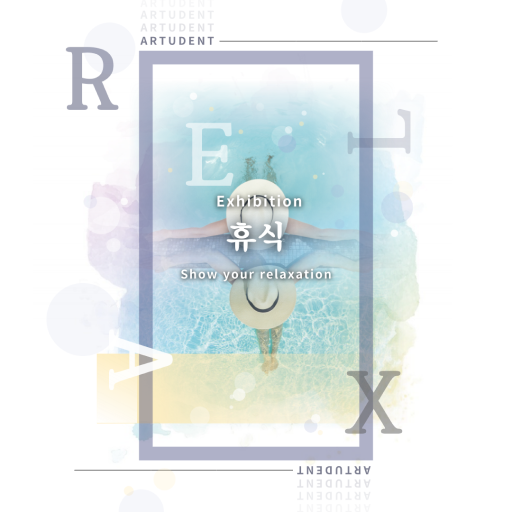
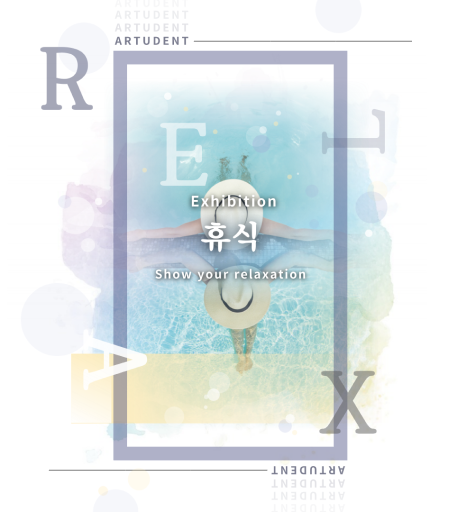
make landing page media-query with jquery

diff --git a/client/src/components/views/LandingPage/LandingPage.js b/client/src/components/views/LandingPage/LandingPage.js
@@ -11,23 +11,23 @@ function LandingPage() {
     var delay = 300;
     var timer = null;
 
-    const Landing = () => {
-        window.addEventListener('resize', function() {
-            // console.log('resizing')
-            clearTimeout(timer);
-            timer = setTimeout(function() {
-                if (window.innerWidth > 1200) {
-                    console.log('web!!!')
-                    return <>
-                    </>
-                } else if (window.innerWidth > 601) {
-                    console.log('tab!!!')
-                } else if (window.innerWidth < 600) {
-                    console.log('mobile!!!')
-                }
-            }, delay); 
-        })
-    }
+    // const Landing = () => {
+    //     window.addEventListener('resize', function() {
+    //         // console.log('resizing')
+    //         clearTimeout(timer);
+    //         timer = setTimeout(function() {
+    //             if (window.innerWidth > 1200) {
+    //                 console.log('web!!!')
+    //                 return <>
+    //                 </>
+    //             } else if (window.innerWidth > 601) {
+    //                 console.log('tab!!!')
+    //             } else if (window.innerWidth < 600) {
+    //                 console.log('mobile!!!')
+    //             }
+    //         }, delay); 
+    //     })
+    // }
 
     return (
         <div
@@ -36,15 +36,13 @@ function LandingPage() {
                 height: '100%',
                 background: '#282828'
             }}>
-            <WaterText/>
+            <WaterText />
             <div
                 style={{
                     width: '80%',
                     margin: '0px auto'
                 }}>
-                <div style={{
-                        // paddingTop: '60px'
-                    }}>
+                <div className='logo__bar'>
                     <img
                         src={Logo}
                         style={{
@@ -53,7 +51,7 @@ function LandingPage() {
                         }}/>
                     <hr
                         style={{
-                            width: '88%',
+                            width: '85%',
                             float: 'right',
                             marginTop: '30px',
                             border: 0,
@@ -62,6 +60,7 @@ function LandingPage() {
                         }}/>
                 </div>
                 <div
+                    className='main_div'
                     style={{
                         width: '100%',
                         height: '100%',
@@ -72,10 +71,12 @@ function LandingPage() {
                         marginBottom: '100px'
                     }}>
                     <div
+                        className='container'
                         style={{
                             display: 'inline-flex',
-                            justifyContent: 'space-around',
-                            width: '100%'
+                            justifyContent: 'space-evenly',
+                            width: '100%',
+                            gap: '30px'
                         }}>
                         <div
                             style={{
@@ -107,9 +108,13 @@ function LandingPage() {
                                 }}>SHOW YOUR RELAXATION</p>
                             <div
                                 style={{
-                                    textAlign: 'center'
+                                    textAlign: 'center',
+                                    gap: '40px',
+                                    display: 'inline-flex',
+                                    width: '100%',
+                                    justifyContent: 'space-evenly'
                                 }}>
-                                    <a href='/museum'>
+                                <a href='/museum'>
                                 <Button
                                     style={{
                                         width: '200px',
@@ -117,7 +122,7 @@ function LandingPage() {
                                         fontSize: '16px',
                                         fontWeight: 'bold',
                                         letterSpacing: '0.1em',
-                                        margin: '39px 51px 0px 0px'
+                                        // marginRight:'41px'
                                     }}>Museum</Button>
                                     </a>
                                     <a href='/about'>
@@ -132,6 +137,7 @@ function LandingPage() {
                                     </a>
                             </div>
                             <div
+                                className='date_div'
                                 style={{
                                     marginTop: '75px',
                                     display: 'flex',
@@ -146,6 +152,7 @@ function LandingPage() {
                                         flexDirection: 'column'
                                     }}>
                                     <p
+                                        className='date_title'
                                         style={{
                                             fontSize: '22px',
                                             fontWeight: 'bold',
@@ -153,6 +160,7 @@ function LandingPage() {
                                             color: '#8C8C8C'
                                         }}>From</p>
                                     <p
+                                        className='date'
                                         style={{
                                             fontSize: '32px',
                                             fontWeight: 'bold',
@@ -169,6 +177,7 @@ function LandingPage() {
                                         marginLeft: 'auto'
                                     }}>
                                     <p
+                                        className='date_title'
                                         style={{
                                             fontSize: '22px',
                                             fontWeight: 'bold',
@@ -176,6 +185,7 @@ function LandingPage() {
                                             color: '#8C8C8C'
                                         }}>To</p>
                                     <p
+                                        className='date'
                                         style={{
                                             fontSize: '32px',
                                             fontWeight: 'bold',
@@ -187,9 +197,10 @@ function LandingPage() {
                         </div>
                         <div>
                             <img
+                                className='image_div'
                                 src={Poster}
                                 style={{
-                                    width: '600px',
+                                    width: '538px',
                                     height: '600px'
                                 }}/>
                         </div>

diff --git a/client/src/components/views/LandingPage/LandingPage.css b/client/src/components/views/LandingPage/LandingPage.css
@@ -11,16 +11,11 @@
     font-style: normal;
 }
 
-/* .flow-container {
-  transform: translate(-850px, 190px) rotate(90deg);
-} */
-
 .flow-text {
     display: flex;
     white-space: nowrap;
     overflow: hidden;
     transition: 0.3s;
-    /* transform: rotate(90deg); */
     font-size: 96px;
     letter-spacing: 0.1em;
     font-weight:bold;
@@ -40,4 +35,109 @@
     -webkit-transform: translate3d(-100%, 0, 0);
     transform: translate3d(-100%, 0, 0);
   }
+}
+
+@media screen and (max-width: 1300px) {
+  .flow-container {
+    display: none;
+  }
+
+  .logo__bar {
+    padding-top: 48px;
+  }
+
+  .logo__bar hr {
+    width: 70% !important;
+  }
+
+  .container {
+    /* display: flex; */
+    flex-direction: column-reverse;
+    align-items: center;
+  }
+}
+
+@media screen and (max-width: 751px) {
+
+  .logo__bar {
+    padding-top: 25px;
+  }
+
+  .logo__bar img {
+    width: 78px !important;
+    height: 39px !important;
+  }
+
+  .logo__bar hr {
+    margin-top: 20px !important;
+  }
+
+  .main_div {
+    background: none !important;
+    padding: 0 !important;
+  }
+
+  .image_div {
+    width: 300px !important;
+    height: 380px !important;
+  }
+
+  #gradient {
+    font-size: 40px !important;
+  }
+
+  #text {
+    font-size: 26px !important;
+  }
+
+  .container Button {
+    width: 136px !important;
+    height: 45px !important;
+  }
+
+  .date_title {
+    font-size: 18px !important;
+  }
+
+  .date {
+    font-size: 22px !important;
+  }
+}
+
+@media screen and (max-width: 387px) {
+  .logo__bar hr {
+    width: 60% !important;
+  }
+
+  .image_div {
+    width: 200px !important;
+    height: 245px !important;
+  }
+
+  #gradient {
+    font-size: 30px !important;
+  }
+
+  #text {
+    font-size: 16px !important;
+  }
+
+  .container Button {
+    width: 100px !important;
+    height: 38px !important;
+    font-size: 12px !important;
+  }
+
+  .date_title {
+    font-size: 14px !important;
+  }
+
+  .date {
+    font-size: 18px !important;
+  }
+
+  .date_div {
+    margin-top: 50px !important;
+  }
+
 }

diff --git a/client/src/components/views/NavBar/NavBar.js b/client/src/components/views/NavBar/NavBar.js
@@ -29,28 +29,30 @@ function NavBar() {
               <Icon type='home' theme='filled' style={{fontSize: '35px', color: '#fff'}} />
             </a>
             <hr style={{width: '350px', backgroundColor: '#fff', border: 0, height: '1px'}} />
-          <div className="menu__logo">
-            <img src={Logo} style={{width: '130px', height: '65px'}}/>
-          </div>
-          <hr style={{width: '350px', backgroundColor: '#fff', border: 0, height: '1px'}} />
-            <Button
-              className="menu__mobile-button"
-              type="text"
-              onClick={showDrawer}
-              style={{ background: 'none', border: 'none' }}
-            >
-              <Icon type="menu" style={{color: '#fff', fontSize: '35px'}} />
-            </Button>
-            <Drawer
-              title=""
-              placement="right"
-              className="menu_drawer"
-              closable={false}
-              onClose={onClose}
-              visible={visible}
-            >
-              <RightMenu mode="inline" />
-            </Drawer>
+            <a href='/'>
+            <div className="menu__logo">
+              <img src={Logo} style={{width: '130px', height: '65px'}}/>
+            </div>
+            </a>
+            <hr style={{width: '350px', backgroundColor: '#fff', border: 0, height: '1px'}} />
+              <Button
+                className="menu__mobile-button"
+                type="text"
+                onClick={showDrawer}
+                style={{ background: 'none', border: 'none' }}
+              >
+                <Icon type="menu" style={{color: '#fff', fontSize: '35px'}} />
+              </Button>
+              <Drawer
+                title=""
+                placement="right"
+                className="menu_drawer"
+                closable={false}
+                onClose={onClose}
+                visible={visible}
+              >
+                <RightMenu mode="inline" />
+              </Drawer>
           </div>
         </nav>
       )

diff --git a/client/src/components/views/Footer/Footer.js b/client/src/components/views/Footer/Footer.js
@@ -11,10 +11,14 @@ function Footer() {
         } else {
             return <>
             <div style={{backgroundColor: '#3E3E3E', width: '100%', height: '200px', display: 'inline-block'}}>
-                <img src={Logo} style={{ width: '130px', height: '65px', margin: '67px 0px 68px 110px'}}/>
+                <a href='/'>
+                    <img src={Logo} style={{ width: '130px', height: '65px', margin: '67px 0px 68px 110px'}}/>
+                </a>
                 <div style={{ float: 'right', margin: '46px 46px 46px 0px', color: '#fff'}}>
                     <p>고객 문의</p>
-                    <p>About Artudent</p>
+                    <a href='/about' style={{color: '#fff'}}>
+                        <p>About Artudent</p>
+                    </a>
                     <p>(c) copyright all right reserved</p>
                 </div>
             </div>
